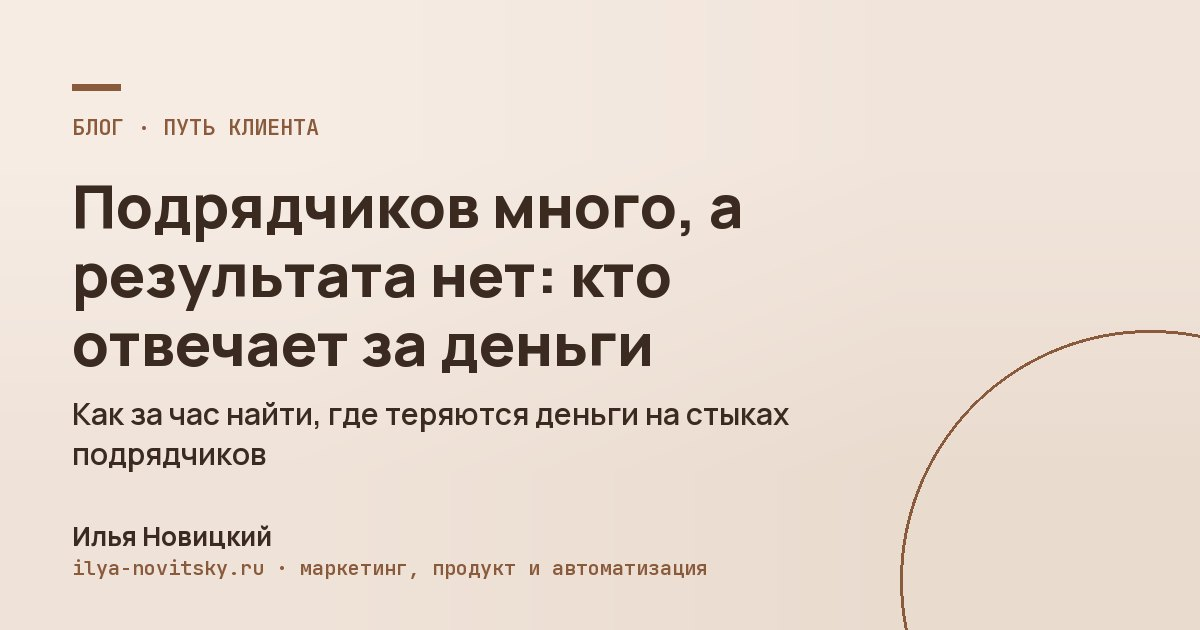
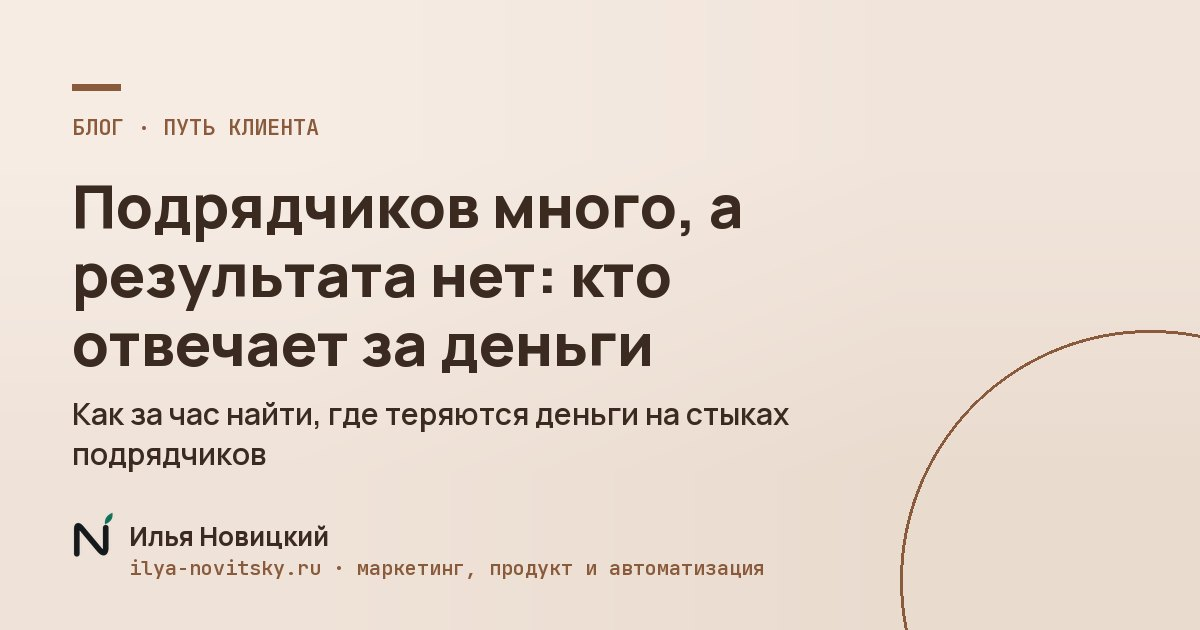
Фирменный знак NCAi: значок «N с лепестком» в шапке, на превью и во вкладке (зелёный), полное слово в подвале; исходники в scripts/brand

Changed region(s): [[0.0617, 0.8143, 0.6475, 0.9349]]

diff --git a/src/components/layout/Header.tsx b/src/components/layout/Header.tsx
@@ -3,14 +3,16 @@ import Link from "next/link";
 import { useState } from "react";
 import { site } from "@/config/site";
 import { common } from "@content/pages/common";
+import BrandMark from "@/components/ui/BrandMark";
 
-// Шапка: имя, три пункта меню, кнопка «Начать с одной задачи»; на телефоне — «Написать» и меню.
+// Шапка: значок и имя, три пункта меню, кнопка «Начать с одной задачи»; на телефоне — «Написать» и меню.
 export default function Header() {
 	const [open, setOpen] = useState(false);
 	return (
 		<header className="top">
 			<div className="wrap">
 				<Link className="brand" href="/">
+					<BrandMark />
 					{site.name}
 				</Link>
 				<nav className="nav">

diff --git a/src/components/ui/BrandMark.tsx b/src/components/ui/BrandMark.tsx
@@ -1,0 +1,12 @@
+// Фирменный значок «N с лепестком» (знак NCAi, решение Ильи 13.10). Буква — цвет текста, лепесток — фирменный зелёный.
+// Источник геометрии — scripts/brand/mark.py.
+export default function BrandMark({ size = 24 }: { size?: number }) {
+	return (
+		<svg className="bmark" viewBox="100 50 350 375" height={size} width={Math.round((size * 350) / 375)} aria-hidden="true">
+			<g transform="translate(24,-190) scale(1.15)">
+				<path d="M100,505 V330 Q100,290 128,318 L262,478 Q300,520 305,468 V320" stroke="currentColor" strokeWidth={40} strokeLinecap="round" strokeLinejoin="round" fill="none" />
+				<path d="M300,296 Q292,240 352,214 Q362,272 300,296 Z" fill="var(--acc)" />
+			</g>
+		</svg>
+	);
+}

diff --git a/src/styles/base.css b/src/styles/base.css
@@ -914,3 +914,8 @@ section.final:not(.dark) .card{border-color:transparent;box-shadow:0 1px 2px rgb
 .df-list li.df-result.is-done .df-who{color:#7fd3b6}
 .df-list li.df-result.is-done .df-st{color:#0b1a14;background:#5fd38d;border-radius:999px;padding:4px 9px}
 .df-list li.df-result.is-done .df-st::before{content:"● "}
+/* фирменный знак (13.10): значок «N с лепестком» в шапке, полное слово NCAi в подвале */
+.brand{display:inline-flex;align-items:center;gap:9px}
+.brand .bmark{flex:none;width:auto;height:24px}
+@media(min-width:900px){.brand .bmark{height:26px}}
+footer .fmark{display:block;height:24px;width:auto;margin:0 0 16px}

diff --git a/src/components/layout/Footer.tsx b/src/components/layout/Footer.tsx
@@ -2,12 +2,13 @@ import Link from "next/link";
 import { site } from "@/config/site";
 import { common } from "@content/pages/common";
 
-// Подвал: роль, страницы, контакты, документы, реквизиты.
+// Подвал: знак NCAi, роль, страницы, контакты, документы, реквизиты.
 export default function Footer() {
 	const c = site.contacts;
 	return (
 		<footer>
 			<div className="wrap">
+				<img className="fmark" src="/brand/ncai.svg" alt="NCAi" width={77} height={27} />
 				<p>
 					<b style={{ color: "var(--ink)" }}>{site.name}</b> · {site.roleFooter}
 				</p>

diff --git a/src/app/layout.tsx b/src/app/layout.tsx
@@ -25,6 +25,7 @@ export const metadata: Metadata = {
 	robots: { index: true, follow: true },
 	icons: {
 		icon: [
+			{ url: "/icon.svg", type: "image/svg+xml" },
 			{ url: "/favicon-16x16.png", sizes: "16x16", type: "image/png" },
 			{ url: "/favicon-32x32.png", sizes: "32x32", type: "image/png" },
 		],

diff --git a/scripts/og/generate_og.py b/scripts/og/generate_og.py
@@ -51,6 +51,7 @@ def wrap(s, fonts, maxw):
     return lines + [cur]
 
 SUBS = json.load(open(f'{ROOT}/content/og.json', encoding='utf-8'))
+MARK = {k: Image.open(f'{ROOT}/public/brand/{k}.png').convert('RGBA') for k in ('n', 'n-white')}  # знак «N с лепестком»
 PHOTO = Image.open(f'{ROOT}/public/images/site/ilya-main.jpg').convert('RGB')
 
 # Статьи — в цвете своей обложки из блога (порядок и темы — src/config/blog.ts, цвета — .c-* в base.css).
@@ -106,8 +107,11 @@ def render(name, title):
     d.rectangle((x, 84, x + 48, 90), fill=acc)
     draw(d, x, 112, kick, mono(22), acc)
     title_block(d, x, 164, title, SUBS.get(name, ''), maxw, ink, subtle, room=H - 164 - 140, sizes=(56, 52, 48, 44, 40) if name == 'home' else (66, 60, 54, 50, 44, 40))
-    draw(d, x, H - 112, 'Илья Новицкий', manrope(26, 700), ink)
-    draw(d, x, H - 76, 'ilya-novitsky.ru · маркетинг, продукт и автоматизация', mono(20), sub)
+    light = ink.lower() in ('#ffffff', '#e9ecea')  # на тёмном/зелёном фоне — белый знак
+    mk = MARK['n-white' if light else 'n']; mh = 46; mk = mk.resize((round(mk.width * mh / mk.height), mh), Image.LANCZOS)
+    im.paste(mk, (x, H - 118), mk); nx = x + mk.width + 14
+    draw(d, nx, H - 112, 'Илья Новицкий', manrope(26, 700), ink)
+    draw(d, nx, H - 76, 'ilya-novitsky.ru · маркетинг, продукт и автоматизация', mono(20), sub)
     im.save(f'{DST}/{name}.jpg', 'JPEG', quality=86, optimize=True)
 
 os.makedirs(DST, exist_ok=True)
@@ -122,7 +126,7 @@ for f in sorted(glob.glob(f'{OUT}/**/*.html', recursive=True)):
     name, title = img.group(1), html.unescape(ttl.group(1))
     if name in seen: continue
     seen.add(name)
-    want = {'title': title, 'sub': SUBS.get(name, '')}
+    want = {'title': title, 'sub': SUBS.get(name, ''), 'brand': 1}
     if man.get(name) == want and os.path.exists(f'{DST}/{name}.jpg'): continue
     render(name, title); man[name] = want; made += 1
 for name in list(man):

diff --git a/scripts/brand/mark.py b/scripts/brand/mark.py
@@ -1,0 +1,19 @@
+# Фирменный знак NCAi (решение Ильи 13.10): полное слово (word) и иконка «N с лепестком» (icon_n).
+# Отсюда собираются public/brand/*.svg и public/icon.svg (build.py); PNG рисует render.mjs (headless Chrome).
+INK, ACC = "#15181a", "#0F6E56"
+N = "M40,280 V62 Q40,36 60,58 L170,258 Q190,284 190,258 V40"
+C = "M478,92 A118,118 0 1 0 478,228"
+A = "M534,280 L612,58 Q620,36 628,58 L676,214 Q696,282 736,282 Q778,282 778,236 V130"
+BAR = "M562,206 H650"
+LEAF = "M764,108 Q758,64 806,40 Q814,86 764,108 Z"
+VB = "18 18 812 284"
+def word(ink=INK, leaf=ACC, w=None):
+    size = f' width="{w}"' if w else ""
+    return (f'<svg xmlns="http://www.w3.org/2000/svg" viewBox="{VB}"{size} role="img" aria-label="NCAi">'
+            f'<g fill="none" stroke="{ink}" stroke-width="34" stroke-linecap="round" stroke-linejoin="round"><path d="{N}"/><path d="{C}"/><path d="{A}"/><path d="{BAR}" stroke-width="30"/></g>'
+            f'<path d="{LEAF}" fill="{leaf}"/></svg>')
+
+def icon_n(bg=INK, fg="#ffffff", leaf="#5fd38d"):
+    return (f'<svg xmlns="http://www.w3.org/2000/svg" viewBox="0 0 512 512"><rect width="512" height="512" rx="112" fill="{bg}"/>'
+            f'<g transform="translate(24,-190) scale(1.15)"><path d="M100,505 V330 Q100,290 128,318 L262,478 Q300,520 305,468 V320" stroke="{fg}" stroke-width="40" stroke-linecap="round" stroke-linejoin="round" fill="none"/>'
+            f'<path d="M300,296 Q292,240 352,214 Q362,272 300,296 Z" fill="{leaf}"/></g></svg>')

diff --git a/scripts/brand/build.py b/scripts/brand/build.py
@@ -1,0 +1,16 @@
+# Собирает файлы знака: SVG для сайта и иконку вкладки. PNG рисует render.mjs (headless Chrome).
+import os
+from mark import word, icon_n
+ROOT = os.path.dirname(os.path.dirname(os.path.dirname(os.path.abspath(__file__))))
+P = f"{ROOT}/public"
+os.makedirs(f"{P}/brand", exist_ok=True)
+open(f"{P}/brand/ncai.svg", "w").write(word())
+open(f"{P}/brand/ncai-white.svg", "w").write(word(ink="#ffffff", leaf="#7fd3b6"))
+open(f"{P}/icon.svg", "w").write(icon_n(bg="#0F6E56", leaf="#bfe6d8"))
+# значок «N с лепестком» без фона — для шапки и превью
+def bare(ink, leaf):
+    s = icon_n(bg="none", fg=ink, leaf=leaf).replace('<rect width="512" height="512" rx="112" fill="none"/>', "")
+    return s.replace('viewBox="0 0 512 512"', 'viewBox="100 50 350 375"')
+open(f"{P}/brand/n.svg", "w").write(bare("#15181a", "#0F6E56"))
+open(f"{P}/brand/n-white.svg", "w").write(bare("#ffffff", "#7fd3b6"))
+print("ok: public/brand/ncai.svg, ncai-white.svg, n.svg, n-white.svg, public/icon.svg")

diff --git a/docs/DECISIONS.md b/docs/DECISIONS.md
@@ -27,3 +27,4 @@
 | 13.10.2026 | Шрифты с набором latin-ext на сайте, в книге и превью | знак ₽ есть только в latin-ext; без него рисовался системным шрифтом |
 | 13.10.2026 | Лента первого экрана — «пример пути» от задачи до продаж с условными цифрами одного проекта; пометка «цифры условные» в ленте | решение Ильи: последовательность и результат важнее; реальные цифры — в кейсах ниже. Пометка — чтобы пример не читался как кейс |
 | 13.10.2026 | «Начать с одной задачи» ведёт в мессенджер; вторая кнопка «Что входит в тест-драйв» — на разбор шага | готовому не мешаем, сомневающемуся даём понимание |
+| 13.10.2026 | Фирменный знак: полное слово NCAi (буквы раздельно, A перетекает в крючок i, зелёный лепесток) и значок «N с лепестком»; значок — в шапке, на превью и во вкладке (зелёный фон), слово — в подвале | решение Ильи 13.10: знак NCAi оставить и сделать под светлый стиль; «NC» слитно не заходит; в шапке главное — имя |

diff --git a/docs/BLUEPRINT.md b/docs/BLUEPRINT.md
@@ -39,8 +39,10 @@ ilya-novitsky.ru/
 │   ├── og/                   ✓ превью 1200×630 для каждой страницы и статьи + manifest.json
 │   ├── book/                 ✓ готовые главы (scripts/book)
 │   ├── CNAME, google….html   ✓
-│   └── favicon*, manifest    ≠ знак NCAi — решение Ильи 13.10; фирменный стиль отдельной задачей
+│   ├── brand/                ✓ знак NCAi: полное слово (ncai.svg) и «N с лепестком» (n.svg), PNG для превью
+│   └── icon.svg, favicon*    ✓ иконка вкладки «N с лепестком» на зелёном
 ├── scripts/
+│   ├── brand/                ✓ mark.py (геометрия знака), build.py (SVG), render.mjs (PNG через Chrome)
 │   ├── og/generate_og.py     ✓ превью по заголовку и подзаголовку; готовые не перерисовывает
 │   ├── check/links.mjs       ✓ битые ссылки и якоря
 │   ├── check/redirects.mjs   ✓ каждый старый адрес ведёт на живую страницу
